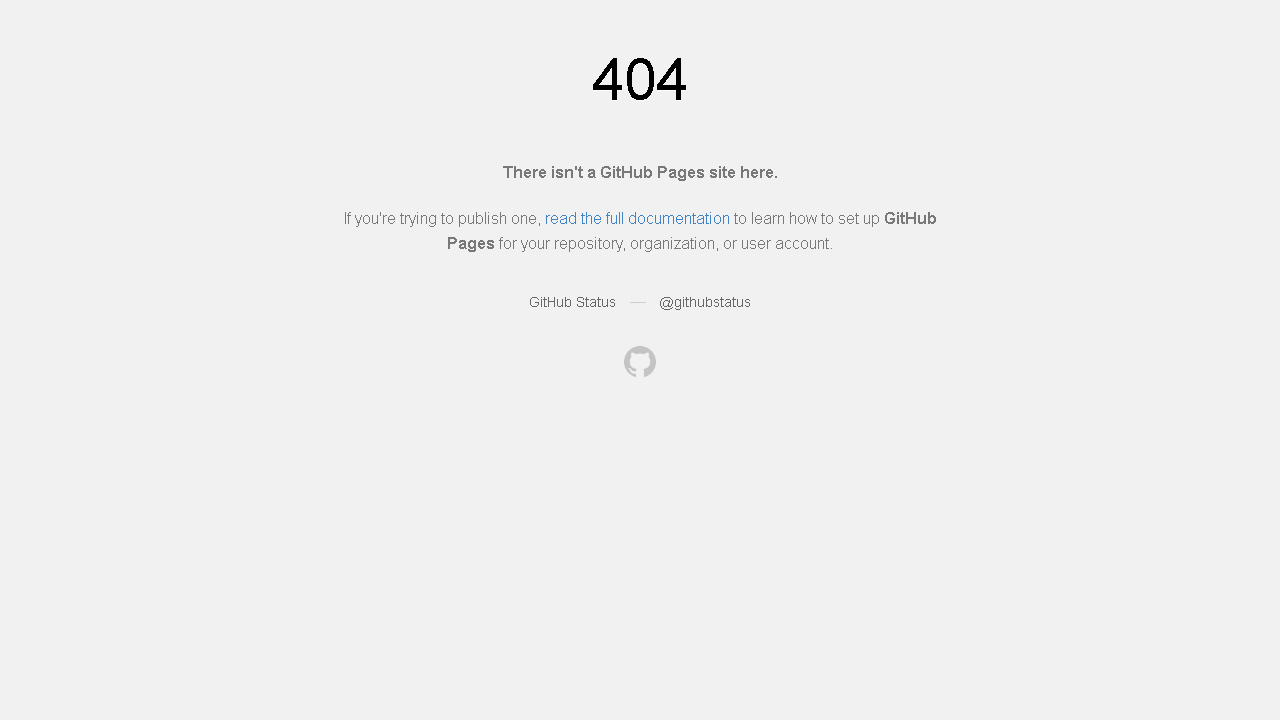
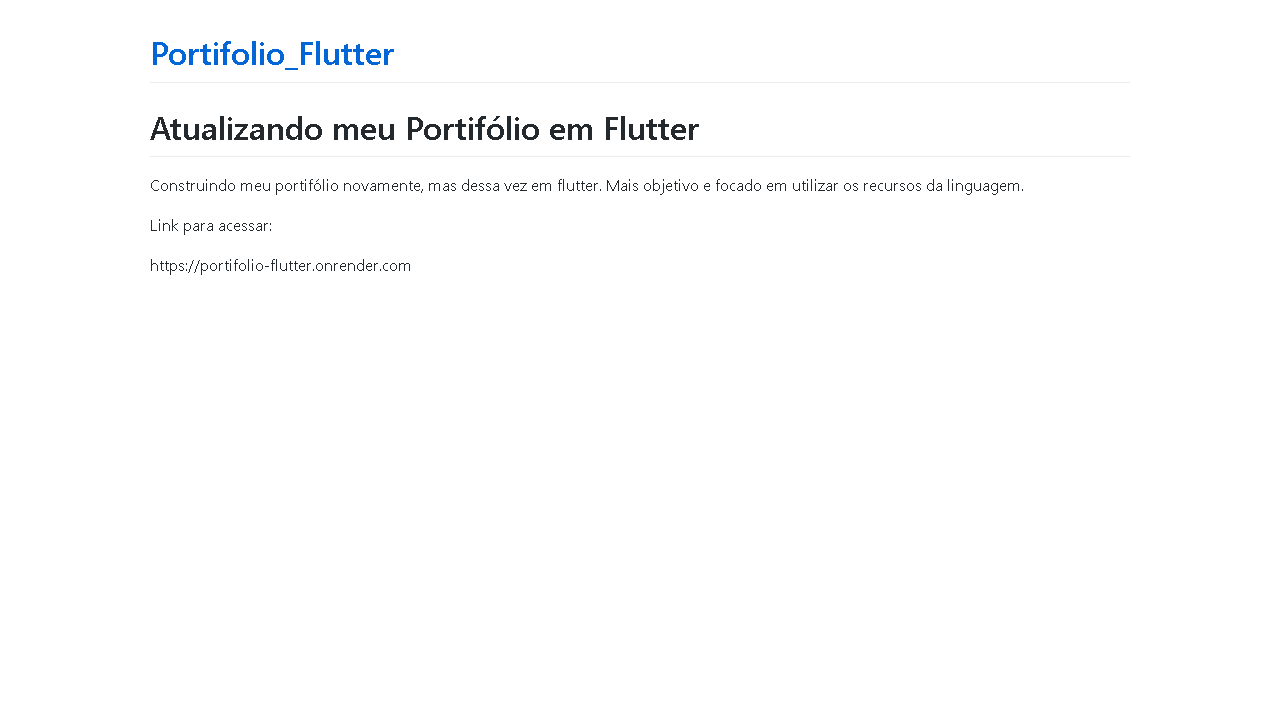
Atualização automática

diff --git a/README.md b/README.md
@@ -29,20 +29,20 @@ Portfólio autoral desenvolvido em Flutter, com foco em dispositivos móveis. O 
 
 **📌 Telas do aplicativo**
 
-_Início:_
-![Início](images/inicio.jpeg)
+_Início:_  
+<img src="images/inicio.jpeg" alt="Início" width="300"/>
 
-_Menu:_
-![Menu](images/menu.jpeg)
+_Menu:_  
+<img src="images/menu.jpeg" alt="Menu" width="300"/>
 
-_Habilidades:_
-![Habilidades](images/habilidades.jpeg)
+_Habilidades:_  
+<img src="images/habilidades.jpeg" alt="Habilidades" width="300"/>
 
-_Projetos:_
-![Projetos](images/projetos.jpeg)
+_Projetos:_  
+<img src="images/projetos.jpeg" alt="Projetos" width="300"/>
 
-_Contato:_
-![Contato](images/contato.jpeg)
+_Contato:_  
+<img src="images/contato.jpeg" alt="Contato" width="300"/>
 
 
 🌐 **Veja a página online: https://portifolio-flutter.onrender.com**
